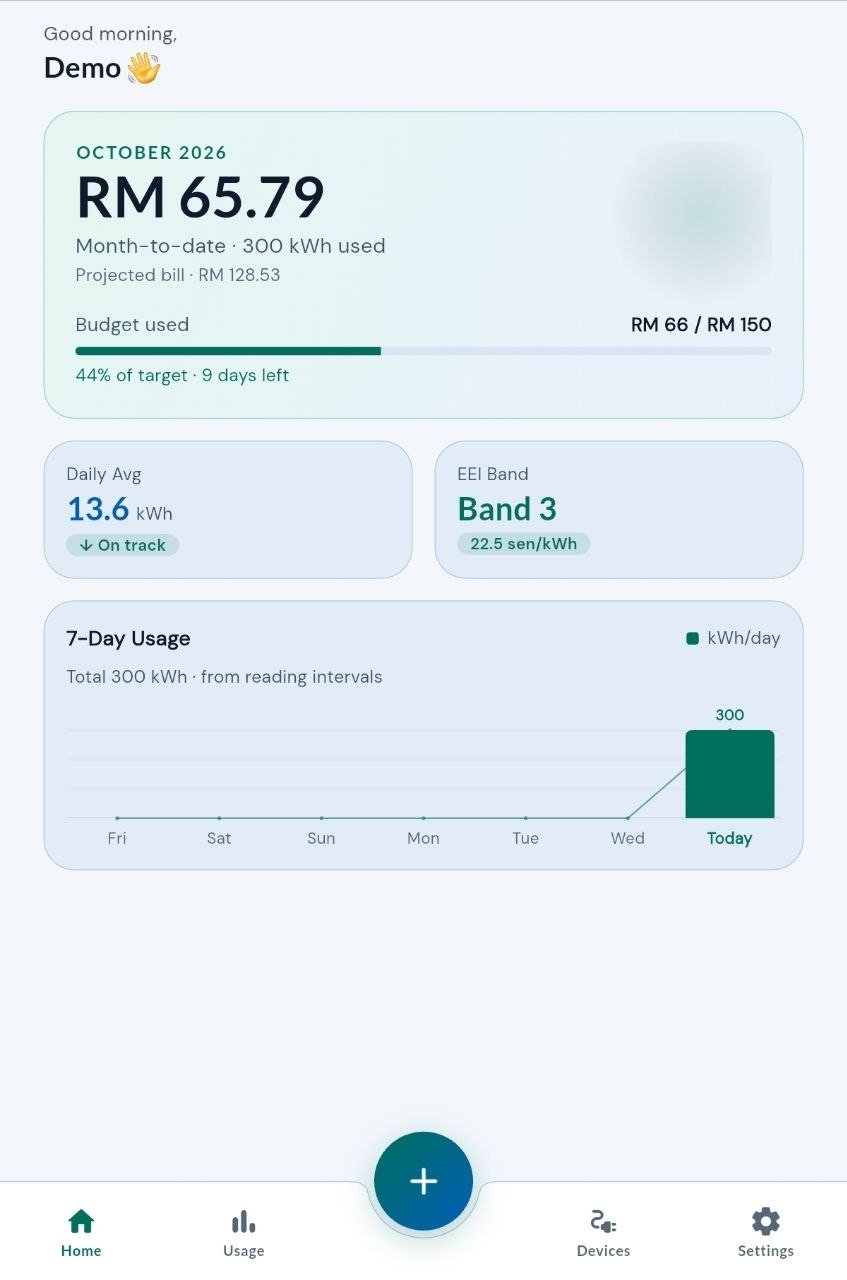
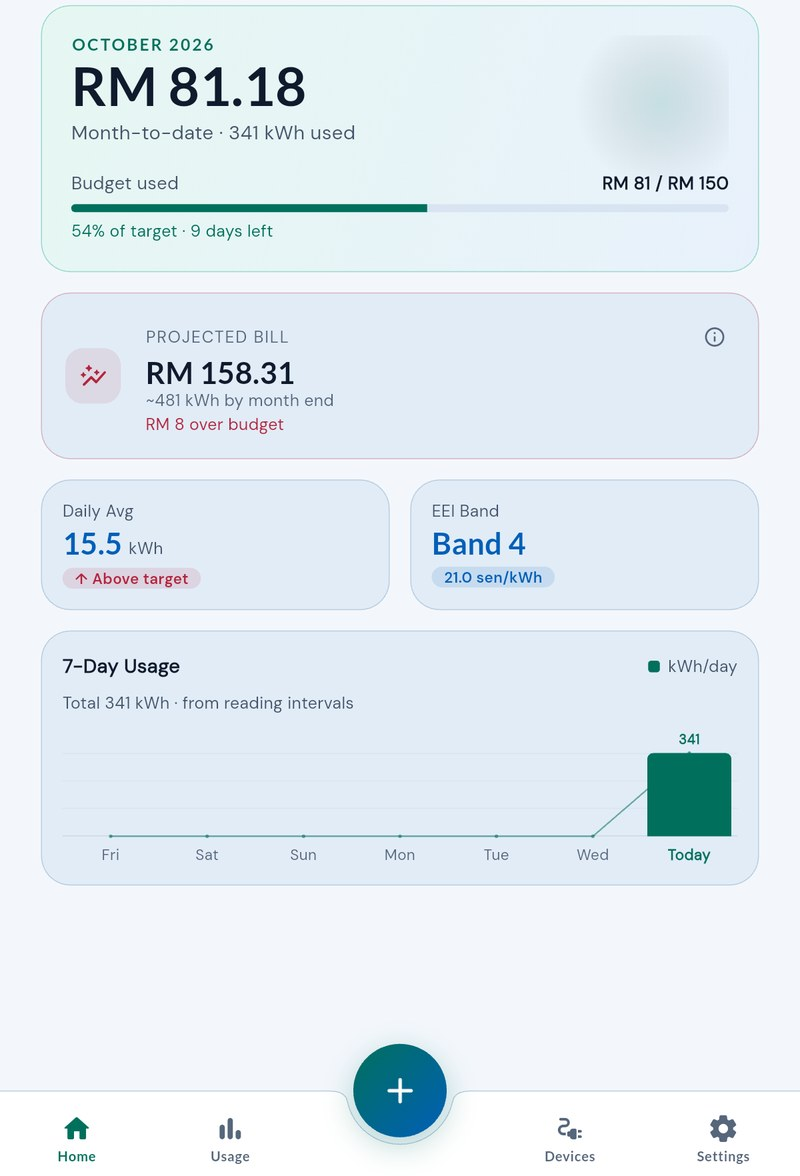
docs: refresh UI notes and screenshots

diff --git a/docs/FEATURES.md b/docs/FEATURES.md
@@ -17,6 +17,8 @@ Current shipped behaviour, grouped by product area.
 
 - Email/password and Google sign-in.
 - Register, sign in and forgot-password pages share one animated auth shell.
+- The auth shell uses a full-width form on phones and a centered card on
+  tablets.
 - Email and password autofill hints, keyboard actions, password visibility
   toggles and accessible tap targets.
 - Password rules are enforced consistently: 8+ characters, uppercase letter,
@@ -43,6 +45,8 @@ Current shipped behaviour, grouped by product area.
 ## Dashboard
 
 - Month-to-date bill and projected full-month bill.
+- Projected bill is explained in plain language, including the daily-average
+  assumption and projected month-end kWh.
 - Budget progress with 80% and 100% states.
 - Same-period comparison against the previous month.
 - Daily average compared with a budget-derived daily target.
@@ -59,6 +63,8 @@ Current shipped behaviour, grouped by product area.
 - Automatic kWh delta, interval start and EEI tier.
 - Reading cannot be lower than the previous reading.
 - Long gaps are split across months and flagged as estimated.
+- The cost preview uses the same monthly allocation as the saved usage page,
+  including same-day readings.
 - Offline saves fail with a clear message instead of waiting forever.
 - Edit mode keeps the original date fixed.
 
@@ -100,6 +106,8 @@ Current shipped behaviour, grouped by product area.
 ## Settings
 
 - Profile card with edit profile.
+- Edit Profile supports avatar change/removal, locked fields while saving and
+  discard confirmation for unsaved changes.
 - Preferences: monthly budget, dark mode and notification settings.
 - Tools: tariff calculator.
 - About: version.
@@ -122,6 +130,10 @@ Current shipped behaviour, grouped by product area.
 - Animated palette transition with contrast-safe colors.
 - Shared bottom-sheet system with consistent animation, surface, handle,
   safe-area and scrolling.
+- Skeleton placeholders on first load; existing content stays visible during
+  refresh.
+- Responsive content widths keep the main tabs readable on tablets.
+- Animated bill and usage values ease between updates.
 - Notched centre add-reading FAB in the bottom navigation.
 - Bundled Lato and DM Sans fonts; no runtime font downloads.
 

diff --git a/docs/ARCHITECTURE.md b/docs/ARCHITECTURE.md
@@ -140,10 +140,16 @@ calculations update without delaying launch.
 
 - `AppColors` supplies the semantic light/dark palette.
 - `AppDimensions` centralizes spacing, radii and component sizes.
+- `AppContentWidth` keeps main-tab content readable on tablets while
+  preserving normal mobile margins.
 - `AppTextStyles` supplies Lato headings and DM Sans body text.
 - `AppBottomSheet` + `showAppBottomSheet` provide one animation, surface,
   handle, safe-area and scrolling policy for all bottom sheets.
-- `AuthPageScaffold` provides the shared auth-page animation and layout.
+- `Skeleton` groups first-load placeholders under one shimmer, respects
+  reduced motion and exposes a single loading label to assistive technology.
+- `AnimatedNumberText` eases bill and usage values between updates.
+- `AuthPageScaffold` provides the shared auth-page animation, responsive
+  centered card and form scrolling behaviour.
 
 ## 11. Release pipeline
 

diff --git a/docs/BILLING.md b/docs/BILLING.md
@@ -91,6 +91,11 @@ six-month gap into one month.
 - First readings are baselines with zero usage.
 - Same-day readings attribute their delta to that day.
 
+The Add Reading preview uses `UsageAllocationService.monthShareForInterval` for
+the new interval and the same monthly allocation path as Usage for existing
+month-to-date usage. This keeps the preview and saved bill consistent, including
+same-day readings.
+
 ## 6. Reading edits and bill recalculation
 
 Readings form a global date-ordered chain. After an insert, edit or delete:
